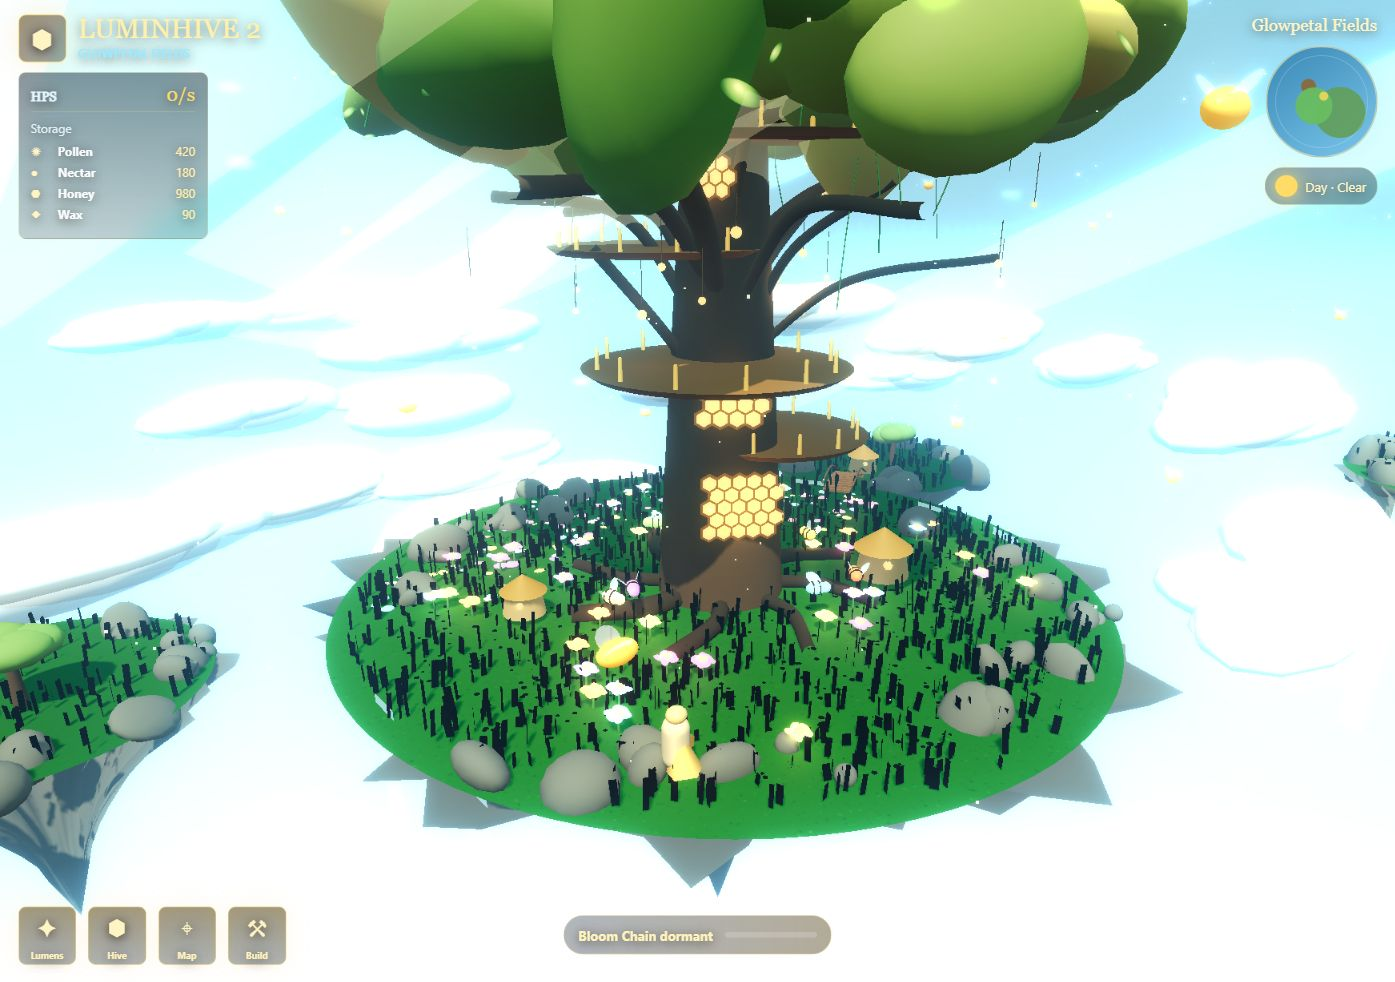
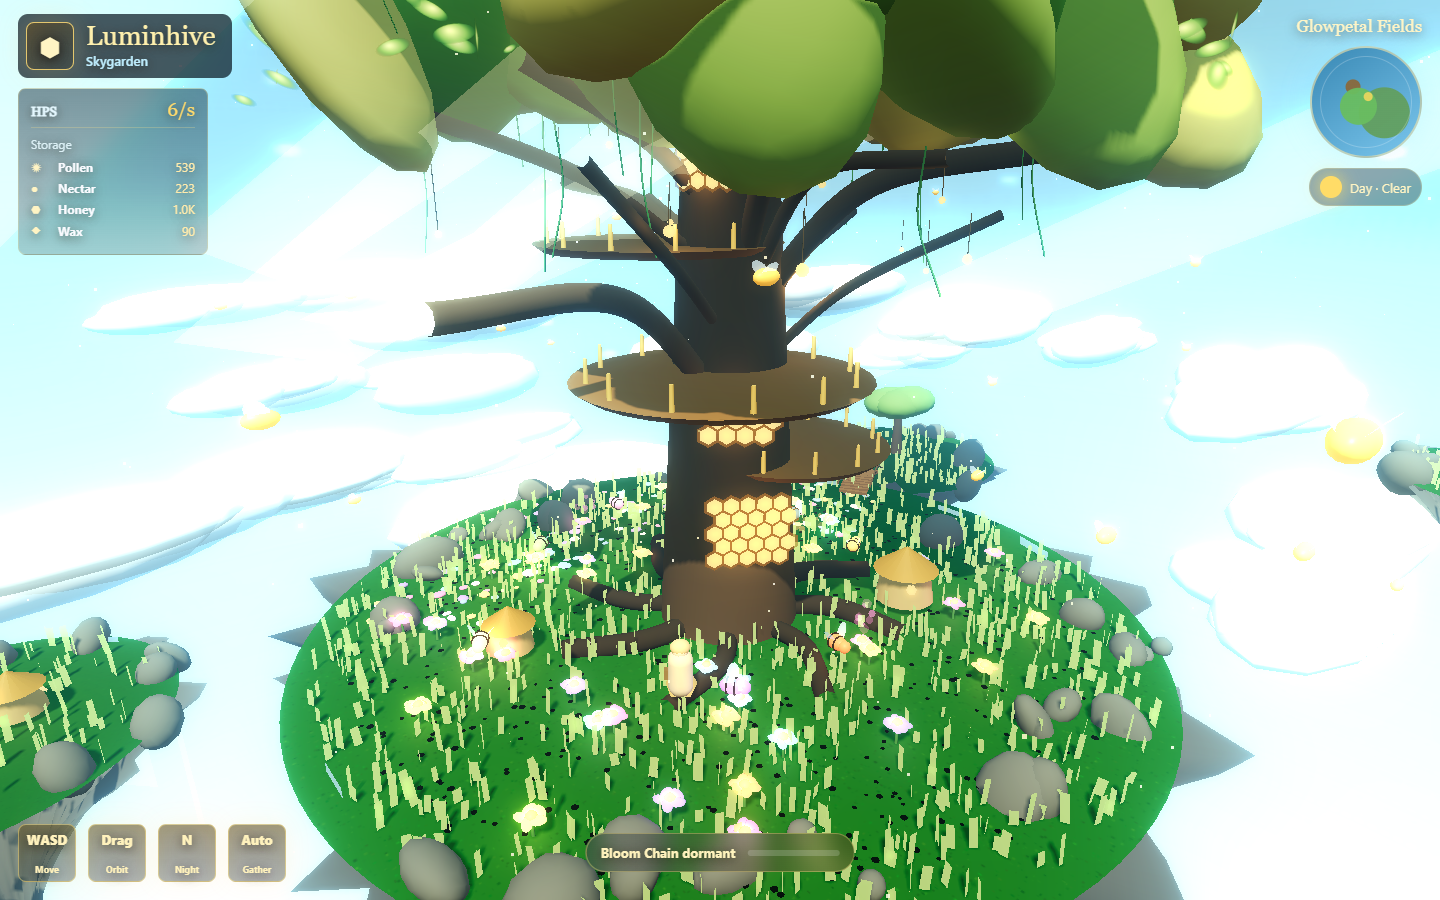
Make the HUD title readable and rewrite the README
The pale "LUMINHIVE 2" title sat straight on the bright sky and was
close to invisible in daylight. It now sits on a dark plate, reads
"Luminhive / Skygarden" to match the repo, and drops the spaced caps.

README rewritten to explain how the game actually plays, with a fresh
screenshot. Doc titles no longer mention "Luminhive 2".

diff --git a/src/styles.css b/src/styles.css
@@ -46,6 +46,10 @@ canvas {
   display: flex;
   align-items: center;
   gap: 12px;
+  width: fit-content;
+  padding: 8px 16px 8px 8px;
+  border-radius: 10px;
+  background: rgba(10, 24, 34, 0.72);
 }
 
 .crest {
@@ -70,10 +74,9 @@ canvas {
 
 .subtitle {
   margin-top: 4px;
-  font-size: 12px;
-  font-weight: 700;
-  color: #9ee9ff;
-  text-transform: uppercase;
+  font-size: 13px;
+  font-weight: 600;
+  color: #bfeeff;
 }
 
 .resource-panel {

diff --git a/src/main.ts b/src/main.ts
@@ -286,8 +286,8 @@ class LuminhiveGame {
         <div class="brand">
           <div class="crest">⬢</div>
           <div>
-            <div class="title">LUMINHIVE 2</div>
-            <div class="subtitle">Glowpetal Fields</div>
+            <div class="title">Luminhive</div>
+            <div class="subtitle">Skygarden</div>
           </div>
         </div>
         <div class="resource-panel">

diff --git a/index.html b/index.html
@@ -3,7 +3,7 @@
   <head>
     <meta charset="UTF-8" />
     <meta name="viewport" content="width=device-width, initial-scale=1.0" />
-    <title>Luminhive 2</title>
+    <title>Luminhive Skygarden</title>
   </head>
   <body>
     <div id="app"></div>

diff --git a/README.md b/README.md
@@ -1,47 +1,34 @@
 # Luminhive Skygarden
 
-A playable Three.js prototype for a floating Skygarden simulator. The project explores procedural world building, autonomous creature behaviour, resource loops and a compact game HUD in the browser.
+A small browser game in Three.js. You walk around a floating island with a giant hive tree while little glowing creatures called Lumens fly between flowers, collect pollen and bring it home. Pollen and nectar turn into honey and wax over time.
 
-![Luminhive playtest](docs/playtest-screenshot.png)
+![Playtest screenshot](docs/playtest-screenshot.png)
 
-## Implemented
+Everything on screen is built in code: the island, the tree and its platforms, waterfalls, flowers, huts, clouds and the Lumens themselves. There are no model files yet, which kept it quick to iterate on and means it loads instantly.
 
-- Third-person movement and a rotatable camera.
-- A procedural floating island with a glowing hive tree, platforms, waterfalls, flowers and clouds.
-- Autonomous Lumens that route to flowers and collect pollen.
-- Nectar, honey and wax production loops.
-- Four flower-efficiency states from Full Bloom to Exhausted.
-- A timed Bloom Chain ability with partial and perfect multipliers.
-- Atmosphere controls, particles, bloom lighting and a responsive HUD.
+## Playing
 
-## Controls
+| Key | Action |
+| --- | --- |
+| `W` `A` `S` `D` or arrows | move |
+| drag | orbit the camera |
+| `N` | switch between day and night |
 
-- Move with `WASD` or the arrow keys.
-- Drag to rotate the camera.
-- Press `N` to change the atmosphere.
-- Move close to the pulsing Lumen to start Bloom Chain, then reach additional Lumens before the timer expires.
+Every so often one Lumen starts pulsing. Walk into it to start a **Bloom Chain**: each extra Lumen you reach within five seconds resets the timer and raises the pollen multiplier. Catch all of them for a 20 second boost, or let the timer run out for a shorter one.
 
-## Run locally
+Flowers never die. Each harvest drains them one step (full bloom, fading, drained, exhausted) and they recover a step every 2.5 seconds, so Lumens spread out across the island instead of stripping one patch. The numbers are in [docs/gameplay-spec.md](docs/gameplay-spec.md).
+
+## Running it
 
 ```bash
 npm ci
 npm run dev
 ```
 
-Open `http://127.0.0.1:5173`.
+Open http://127.0.0.1:5173. `npm run build` type-checks and produces a static build in `dist/`.
 
-## Build
+## What's next
 
-```bash
-npm run build
-```
+The procedural tree, player, huts and Lumens are placeholders for proper GLB models. The game logic and island layout are kept separate from the meshes so they can be swapped without touching the simulation. See [docs/engine-path.md](docs/engine-path.md) and [docs/vertical-slice.md](docs/vertical-slice.md) for where it's heading.
 
-## Technology
-
-- TypeScript
-- Three.js
-- Vite
-- Procedural geometry and WebGL effects
-
-The current prototype deliberately uses procedural assets so the simulation is immediately playable. A future art pass can replace the tree, player, huts and Lumens with authored GLB assets while keeping the game logic and scene layout.
-
+Built with TypeScript, Three.js and Vite.

diff --git a/docs/vertical-slice.md b/docs/vertical-slice.md
@@ -1,6 +1,6 @@
-# Luminhive 2 Vertical Slice
+# Luminhive Skygarden vertical slice
 
-This folder starts the playable visual prototype for Luminhive 2.
+This folder starts the playable visual prototype for Luminhive Skygarden.
 
 ## First playable scope
 

diff --git a/docs/gameplay-spec.md b/docs/gameplay-spec.md
@@ -1,4 +1,4 @@
-# Luminhive 2 Gameplay Spec Notes
+# Luminhive Skygarden gameplay notes
 
 ## Flowers
 
